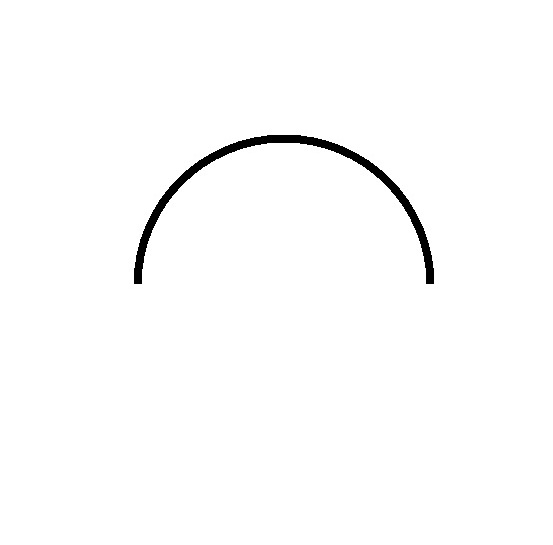
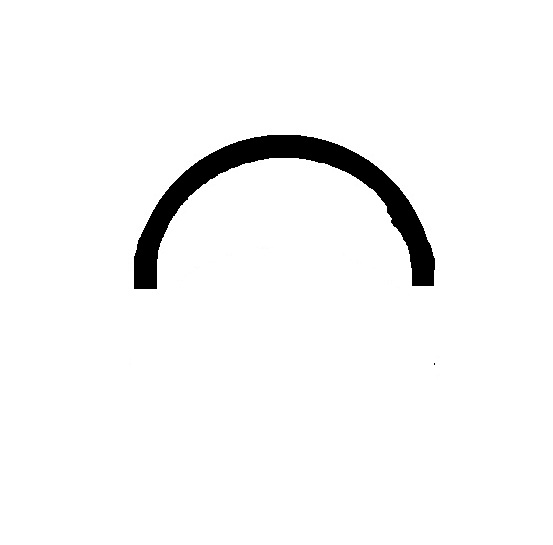
poprawione obrazki i dodanie odbicia lustrzanego na backendzie

Changed region(s): [[0.2459, 0.2495, 0.7993, 0.5303]]

diff --git a/website/src/app/App.tsx b/website/src/app/App.tsx
@@ -34,7 +34,7 @@ export default function App() {
 
   const handleMouseLeave = () => setTooltip(prev => ({ ...prev, active: false }));
   const abbreviations = [
-    { en: 'rnd',        pl: 'okr',           full: 'okrąg',                     img: '/images/stitches/rnd.jpg' },
+    { en: 'rnd',        pl: 'okr',           full: 'okrąg',                     img: null },
     { en: 'sc',         pl: 'ps',            full: 'półsłupek',                 img: '/images/stitches/sc.jpg' },
     { en: 'hdc',        pl: 'psn',           full: 'półsłupek nawijany',        img: '/images/stitches/hdc.jpg' },
     { en: 'dc',         pl: 's',             full: 'słupek',                    img: '/images/stitches/dc.jpg' },

diff --git a/backend/src/main/java/com/example/crochetLingo/antlr/CrochetToPolishVisitor.java b/backend/src/main/java/com/example/crochetLingo/antlr/CrochetToPolishVisitor.java
@@ -5,9 +5,21 @@ import org.antlr.v4.runtime.tree.TerminalNode;
 import java.util.List;
 import java.util.Map;
 import java.util.stream.Collectors;
+import java.util.ArrayList;
+import java.util.Collections;
 
 public class CrochetToPolishVisitor extends CrochetBaseVisitor<String> {
 
+    private final boolean mirror;
+
+    public CrochetToPolishVisitor(boolean mirror) {
+        this.mirror = mirror;
+    }
+
+    // konstruktor domyślny dla wstecznej kompatybilności
+    public CrochetToPolishVisitor() {
+        this.mirror = false;
+    }
 
     private static final Map<String, String> STITCH_TRANSLATIONS = Map.of(
             "sc", "ps",
@@ -44,7 +56,27 @@ public class CrochetToPolishVisitor extends CrochetBaseVisitor<String> {
 
     @Override
     public String visitElementList(CrochetParser.ElementListContext ctx) {
-        return ctx.element().stream()
+        List<CrochetParser.ElementContext> elements = new ArrayList<>(ctx.element());
+
+        if (mirror) {
+            // wyodrębnij mr z początku listy jeśli istnieje
+            int startIndex = 0;
+            if (!elements.isEmpty()) {
+                String firstText = elements.get(0).getText();
+                if ("mr".equals(firstText)) {
+                    startIndex = 1;
+                }
+            }
+
+            List<CrochetParser.ElementContext> prefix = elements.subList(0, startIndex);
+            List<CrochetParser.ElementContext> rest = new ArrayList<>(elements.subList(startIndex, elements.size()));
+            Collections.reverse(rest);
+
+            elements = new ArrayList<>(prefix);
+            elements.addAll(rest);
+        }
+
+        return elements.stream()
                 .map(this::visit)
                 .collect(Collectors.joining(", "));
     }
@@ -71,10 +103,8 @@ public class CrochetToPolishVisitor extends CrochetBaseVisitor<String> {
             String number = numberNode.getText();
 
             if (ctx.getChild(0).getText().equals(number)) {
-                // NUMBER STITCH
                 result.append(number).append(" ").append(translated);
             } else {
-                // STITCH NUMBER
                 result.append(translated).append(" ").append(number);
             }
         } else {

diff --git a/backend/src/test/java/com/example/crochetLingo/service/TranslatorServiceTest.java b/backend/src/test/java/com/example/crochetLingo/service/TranslatorServiceTest.java
@@ -25,7 +25,7 @@ class TranslatorServiceTest {
         String input = readFixture("fixtures/basic.en.dsl");
         String expected = readFixture("fixtures/basic.pl.dsl");
 
-        String actual = translatorService.translate(input);
+        String actual = translatorService.translate(input, false);
 
         assertEquals(normalize(expected), normalize(actual));
     }
@@ -35,14 +35,14 @@ class TranslatorServiceTest {
         String input = readFixture("fixtures/context.en.dsl");
         String expected = readFixture("fixtures/context.pl.dsl");
 
-        String actual = translatorService.translate(input);
+        String actual = translatorService.translate(input, false);
 
         assertEquals(normalize(expected), normalize(actual));
     }
 
     @Test
     void throwsForInvalidDsl() {
-        assertThrows(DslSyntaxException.class, () -> translatorService.translate("rnd 1: mr 8 sc;"));
+        assertThrows(DslSyntaxException.class, () -> translatorService.translate("rnd 1: mr 8 sc;", false));
     }
 
     private String readFixture(String path) throws IOException {

diff --git a/backend/src/main/java/com/example/crochetLingo/service/TranslatorService.java b/backend/src/main/java/com/example/crochetLingo/service/TranslatorService.java
@@ -11,7 +11,7 @@ import org.springframework.stereotype.Service;
 @Service
 public class TranslatorService {
 
-    public String translate(String input) {
+    public String translate(String input, boolean mirror) {
         if (input == null || input.isBlank()) {
             throw new IllegalArgumentException("pattern_en.text must not be blank");
         }
@@ -25,7 +25,7 @@ public class TranslatorService {
         parser.removeErrorListeners();
         parser.addErrorListener(ThrowingErrorListener.INSTANCE);
 
-        CrochetToPolishVisitor visitor = new CrochetToPolishVisitor();
+        CrochetToPolishVisitor visitor = new CrochetToPolishVisitor(mirror);
         return visitor.visit(parser.pattern());
     }
 }

diff --git a/backend/src/main/java/com/example/crochetLingo/controller/TranslateController.java b/backend/src/main/java/com/example/crochetLingo/controller/TranslateController.java
@@ -30,7 +30,7 @@ public class TranslateController {
             throw new ResponseStatusException(HttpStatus.BAD_REQUEST, "pattern_en.text is required");
         }
 
-        String translated = translatorService.translate(request.pattern_en.text);
+        String translated = translatorService.translate(request.pattern_en.text, request.isMirror());
 
         PatternResponse response = new PatternResponse();
         response.pattern_en = request.pattern_en;

diff --git a/backend/src/main/java/com/example/crochetLingo/model/PatternRequest.java b/backend/src/main/java/com/example/crochetLingo/model/PatternRequest.java
@@ -2,4 +2,11 @@ package com.example.crochetLingo.model;
 
 public class PatternRequest {
     public PatternText pattern_en;
+    private boolean mirror;
+
+    public PatternText getPattern_en() { return pattern_en; }
+    public void setPattern_en(PatternText pattern_en) { this.pattern_en = pattern_en; }
+
+    public boolean isMirror() { return mirror; }
+    public void setMirror(boolean mirror) { this.mirror = mirror; }
 }
